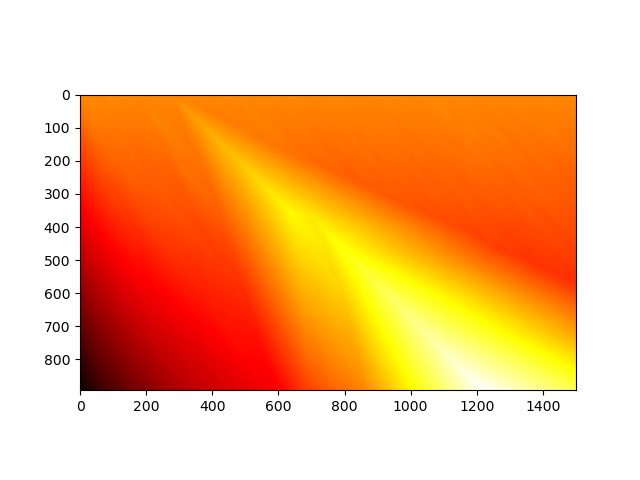
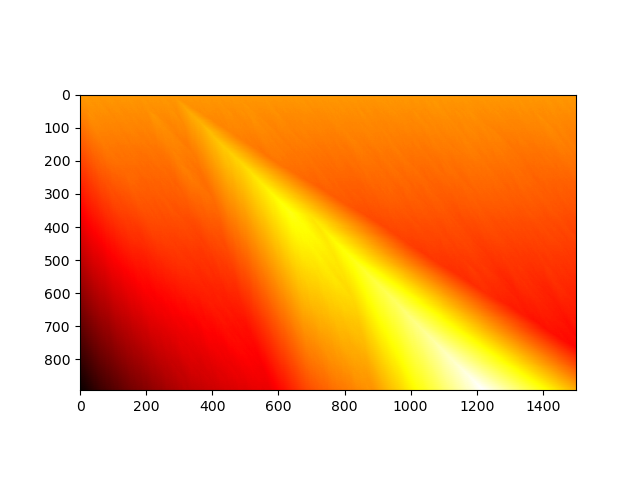
report: add modified alg efficiency proof

Changed region(s): [[0.4375, 0.3438, 0.9062, 0.8125], [0.4062, 0.3125, 0.4375, 0.3438]]

diff --git a/doc/report/parts/pseudolabeling.tex b/doc/report/parts/pseudolabeling.tex
@@ -54,7 +54,7 @@
 
 Алгоритм работает так.
 Пусть референс -- строка $r \in \mathcal{A}^m $, запрос $q \in \mathcal{A}^n$; с использованием динамического программирования строится матрица веса выравнивания $S_{(n+1)\times (m+1)}$.
-В каждой ячейке $S_{ij}$ содержится вес оптимального выравнивания подстрок $q[1:i]$ и $r[1:j]$ (будем считать, что индексы матрицы именуются с нуля, а индексы в строках с единицы; на практике в начало строки для удобства добавляется некоторый символ $ \$ \notin \mathcal{A} \cup \{ \ast \} $ и строки тоже индексируются, начиная с нуля). % TODO describe what is r[0:j], q[0:i]
+В каждой ячейке $S_{ij}$ содержится вес оптимального выравнивания подстрок $q[1:i]$ и $r[1:j]$ (будем считать, что индексы матрицы именуются с нуля, а индексы в строках с единицы; на практике в начало строки для удобства добавляется некоторый символ $ \$ \notin \mathcal{A} \cup \{ \ast \} $ и строки тоже индексируются, начиная с нуля).
 Выравнивание соответствует пути из левого верхнего угла такой матрицы в правый нижний; из каждой клетки $(i,j)$ возможны только переходы вправо (выпадение), вниз (вставка) или по диагонали вправо и вниз (совпадение / несовпадение в зависимости от того, одинаковые ли символы $r[i]$ и $r[j]$).
 \begin{enumerate}
     \item Сперва заполняется первая строка и первый столбец $S$: $S_{0j} = -j, \thickspace S_{i0} = -i$, т. е. выравниваниям $q[0:i]$ и  $r[0:j]$ на строку из пропусков присваивается отрицательный вес, который тем больше по модулю, чем больше пропусков.
@@ -70,7 +70,7 @@
 
 \end{enumerate}
 
-Наша задача такова, что референс обычно в полтора-два раза длиннее запроса и содержит участки в начале и конце, которые не должны соответствовать никаким участкам запроса.
+В силу особенностей нашей задачи референс обычно в полтора-два раза длиннее запроса и содержит участки в начале и конце, которые не должны соответствовать никаким участкам запроса.
 В таких условиях алгоритм Нидлмана-Вунша может построить плохое выравнивание (с большими разрывами в запросе).
 К примеру, взяв референс "homo homini lupus est"\hspace{0pt} и запрос "homhoni lupus"\hspace{0pt}, получим оптимальное выравнивание с 8 выпадениями
 
@@ -79,16 +79,20 @@
     hom**ho**ni lupus****
 \end{verbatim}
 
-Немного модифицируем алгоритм: не будем штрафовать выпадения до первого символа запроса и после последнего.
-Для этого достаточно первую строку таблицы $ \{ S_{0j} \} $ инициализировать нулями, а в последней строке при добавлении делеции не вычитать единицу:
+Немного модифицируем алгоритм:
 
-\[ S_{n,j} := \max \begin{cases}
-    S_{n-1,j} - 1 \\
-    S_{n,j-1} \\
-    S_{n-1,j-1} + 1 \text{ \textbf{if} } q[i-1] = r[j-1] \text{ \textbf{else} } S_{n-1,j-1} - 1
-\end{cases} \]
+\begin{enumerate}[noitemsep]
+    \item Не будем штрафовать выпадения до первого символа запроса и после последнего.
+    Для этого достаточно первую строку таблицы $ \{ S_{0j} \} $ инициализировать нулями, а в последней строке при добавлении делеции не вычитать единицу:
 
-Такой алгоритм строит выравнивание с наименьшим возможным числом различий (несовпадений, вставок и выпадений) на участке от первого до последнего отличного от пропуска символа запроса. % TODO оформить в виде теоремы
+    \[ S_{n,j} := \max \begin{cases}
+        S_{n-1,j} - 1 \\
+        S_{n,j-1} \\
+        S_{n-1,j-1} + 1 \text{ \textbf{if} } q[i-1] = r[j-1] \text{ \textbf{else} } S_{n-1,j-1} - 1
+    \end{cases} \]
+    \item Во всех остальных случаях увеличим штраф за выпадение в два раза.
+\end{enumerate}
+
 Теперь выравнивание выглядит следующим образом:
 
 \begin{verbatim}
@@ -97,17 +101,43 @@
 \end{verbatim}
 
 (9 выпадений, 1 вставка и 1 несовпадение).
-
 Ещё один пример выравнивания ("caribbean"\hspace{0pt} и "bribe") визуализирован на рис. \ref{fig:caribbean_bribe}.
+
+Покажем, что наш алгоритм хорош для решения задачи, при которой запрос не должен целиком быть выровнен на референс.
+
+Введём обозначения: $n_{ins}$ -- число вставок $n_{match}$ -- совпадений, $n_{mis}$ -- несовпадений;  $n_{del}(q_{start},q_{end})$ -- число выпадений от первого символа запроса до последнего, $n_{tot} := n_{del}(q_{start},q_{end}) + n_{ins} + n_{match}$.
+
+\begin{statement}
+Описанная модификация алгоритма Нидлмана-Вунша строит выравнивание с наименьшим возможным $n_{tot}$ (т. е. выравнивание с наименьшим суммарным числом вставок, выпадений и несовпадений между первым и последним символом запроса, отличным от символа выпадения).
+\end{statement}
+\begin{proof}
+Заполнение матрицы динамического программирования начинается в первой строке и заканчивается в последней.
+Передвижение на строку вниз соответствует одному из трёх событий: вставка, совпадение или несовпадение.
+Поэтому
+\begin{equation}\label{eq:n_sum}
+    n = n_{match} + n_{mis} + n_{ins}
+\end{equation}
+
+С другой стороны, счёт выравнивания
+\begin{equation}\label{eq:score}
+    S[n,m] = n_{match} - \left( n_{mis} + n_{ins} + 2 \cdot n_{del}(q_{start},q_{end}) \right)
+\end{equation}
+\begin{equation*}
+    S[n,m] \overset{\eqref{eq:n_sum}\eqref{eq:score}}= n - 2(n_{mis} + n_{ins} + n_{del}(q_{start},q_{end})) = n - 2 \cdot n_{tot}
+\end{equation*}
+
+Следовательно, выравнивание с наибольшим счётом (которое и выбриает алгоритм) даёт наименьшее значение $n_{tot}$.
+
+\end{proof}
 
 \begin{figure}[H]
     \centering
-    \includegraphics[width=\myPictWidth]{test_needleman_wunsch/caribbean_bribe}
+    \includegraphics[width=.8\myPictWidth]{test_needleman_wunsch/caribbean_bribe}
     \caption{Матрица динамического программирования модифицированного алгоритма Нидлмана-Вунша для референса "caribbean"\hspace{0pt} и запроса "bribe". Жирными линиями обведены клетки, соотвтествующие найденному выравниванию }
     \label{fig:caribbean_bribe}
 \end{figure}
 
-На рис. \ref{fig:needleman_real} изображены тепловые карты, построенные для образца из реального набора данных. % TODO compare
+На рис. \ref{fig:needleman_real} изображены тепловые карты матрицы динамического программирования для образца из реальных данных.
 
 \begin{figure}[H]
     \centering

diff --git a/doc/report/main.tex b/doc/report/main.tex
@@ -16,6 +16,7 @@
 \usepackage{dsfont}
 
 % utilities
+\usepackage{amsthm} % theorems with proofs
 \usepackage{mathtools} % xRightarrow, xrightleftharpoons, etc
 \usepackage{array} % utils for tables
 \usepackage{multirow} % multirow for tables
@@ -62,6 +63,7 @@
 \usepackage{chngcntr}
 \counterwithin{figure}{section} % per section figure numbering
 \counterwithin{table}{section}
+\counterwithin{equation}{section}
 
 % misc
 \graphicspath{{./img/}}
@@ -71,6 +73,8 @@
     \section*{#1}
     \addcontentsline{toc}{section}{\protect\numberline{}#1}%
 }
+\newtheorem{statement}{Утверждение}
+\counterwithin{statement}{section}
 
 \begin{document}
 \subfile{titlepage}
